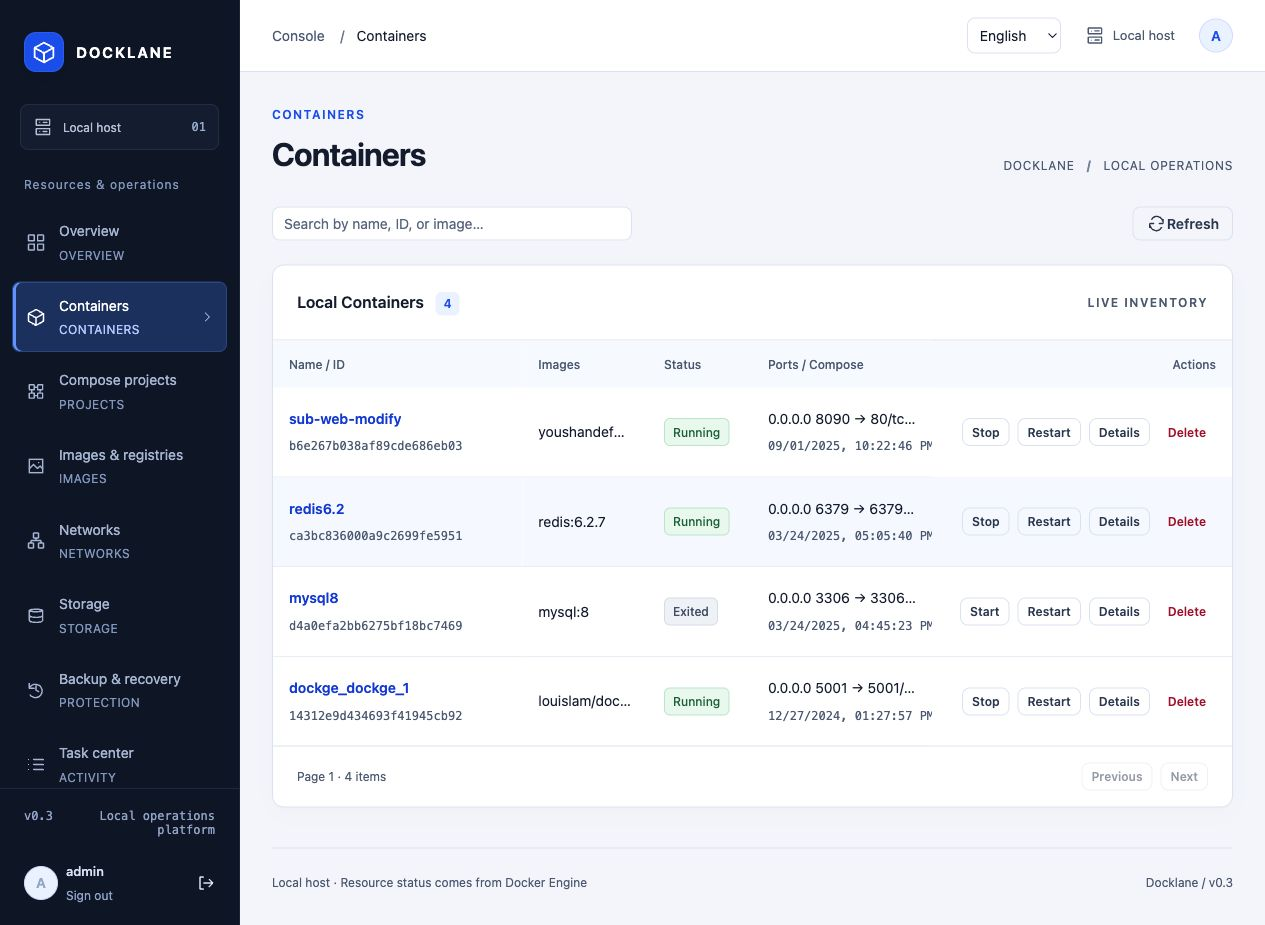
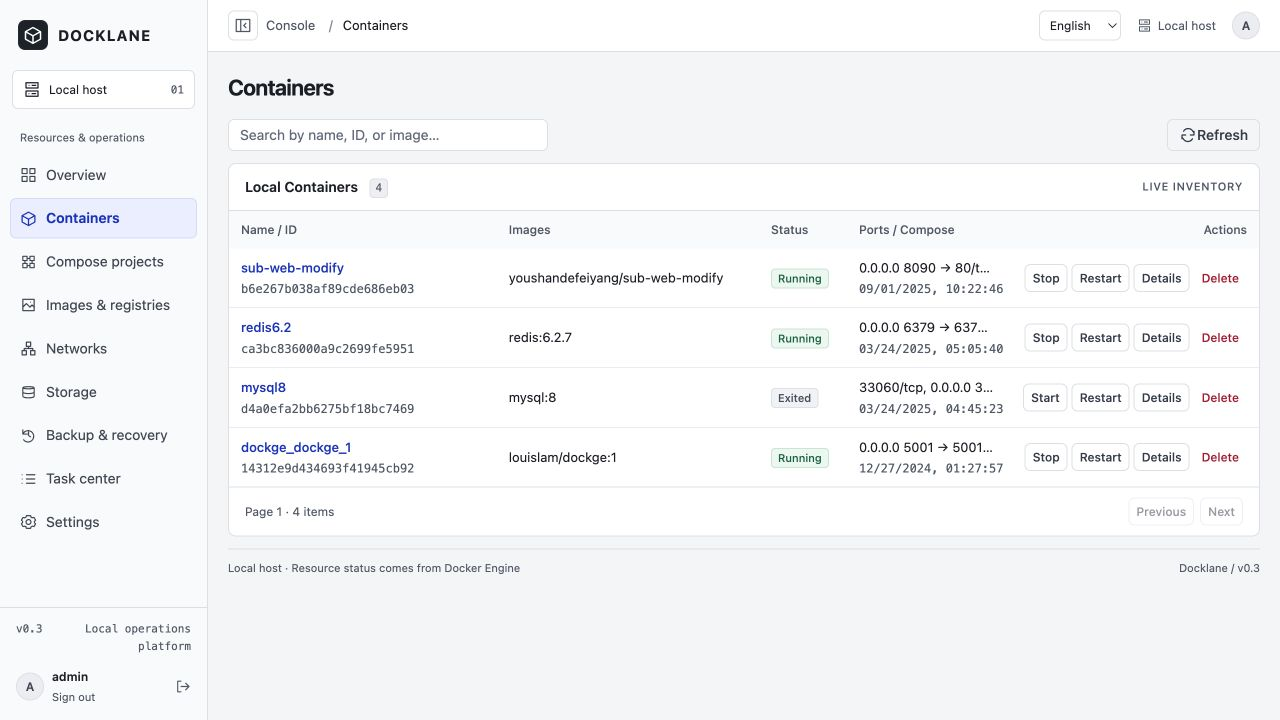
Show the current deployed console in the bilingual README
Replace twelve system screenshots with fresh captures from the test deployment
and update their date and provenance. Keep raw configuration and lower audit
sections outside the captured area, while preserving real empty states.

Constraint: Preserve promotional images and existing screenshot paths
Confidence: high
Scope-risk: narrow
Tested: Twelve JPEG hashes, visual review, bilingual image links, 47 local links, git diff check
Not-tested: Application tests were not rerun for this documentation-only change

diff --git a/docs/images/README.md b/docs/images/README.md
@@ -11,17 +11,17 @@
 
 ## Actual screenshots / 真实界面截图
 
-Captured on 2026-10-17 from the current production frontend build using a local read-only API proxy to the real test environment. No mock resources or metrics were added. The test server was not redeployed.
+Captured on 2026-10-19 directly from the deployed Docklane test application using an authenticated browser. The screenshots show the current compact console, dashboard, sidebar and capability settings. Resources and metrics come from the test environment without API interception or fixtures.
 
-截图来自本地生产构建，通过只读代理读取测试环境真实 API。未添加模拟资源或指标，未重新部署测试服务器。仅登录、退出及读取页面，不执行 Docker 资源变更。
+截图于 2026-10-19 直接采集自已部署的 Docklane 测试环境，展示新版控制台、工作台、侧栏及功能配置界面。资源和指标均来自真实环境，没有 API 拦截或模拟数据。采集期间仅登录、浏览页面、切换浏览器语言并退出，不执行 Docker 资源或配置变更。
 
 - `zh/`: Simplified Chinese / 简体中文
 - `en/`: English / 英文
 - Six pages per language: overview, containers, Compose, images, backups, settings.
-- Original browser JPEG captures are retained without image edits. Viewport: 1265 × 712 CSS pixels; selected pages use full-page capture.
-- Compose and settings use viewport captures to omit raw discovery configuration and audit details. Empty states and restricted capabilities reflect the real host.
+- Original browser JPEG captures are retained without image edits at their native exported dimensions. The default browser viewport is 1280 × 720 CSS pixels.
+- Compose uses a shorter 1280 × 500 viewport to exclude raw discovery configuration. Settings uses the default viewport to omit lower diagnostics and audit details. Empty states and restricted capabilities reflect the real host.
 - No login credentials or test-service address are included. Historical QA screenshots retain their original brand as evidence.
 
-Visual review passed at 95/100 after correcting English container action-column clipping and sidebar footer spacing. All 12 captures were checked for brand, language, layout and excluded sensitive detail. This is a self-assessment of the new design direction, not an external certification or pixel-equivalence claim.
+All 12 captures were visually checked for the Docklane brand, correct language, readable page headings, resource state and excluded sensitive detail. The supplied promotional images above remain unchanged.
 
-Validation for this capture: `make check` passed (Go tests, race, vet, frontend typecheck and 54 frontend tests), production frontend build passed, and a newly compiled Go server served the embedded JavaScript/CSS byte-for-byte from that build. The existing large-bundle advisory remains.
+Validation for this update covers JPEG integrity, matching image language and page, changed image hashes, unchanged promotional image hashes and README image/link targets. This screenshot update does not change application code; broader product verification is documented in [the verification report](../verification.md).

diff --git a/README.en.md b/README.en.md
@@ -31,7 +31,7 @@ Docklane currently manages a single host. See [Current limitations](#current-lim
 
 ## Screenshots
 
-These screenshots use the latest local Docklane frontend connected to the test environment’s real APIs through a read-only proxy; the frontend was not deployed to the test server. Empty lists show actual empty states. Logs, terminal output, raw configuration and audit details are excluded.
+Captured directly from the deployed Docklane test environment on 2026-10-19, these screenshots show real resources, empty states and feature availability. The Compose capture includes only the upper section, excluding raw configuration; Settings shows the first screen only. Logs, terminal output, raw configuration and audit details are excluded.
 
 ![Docklane English overview](docs/images/en/overview.jpg)
 

diff --git a/README.md b/README.md
@@ -31,7 +31,7 @@ Go 服务嵌入 Vue 界面，支持 Linux 二进制和 Docker 部署。Docker En
 
 ## 界面预览
 
-以下截图使用本地最新 Docklane 前端，通过只读代理连接测试环境的真实 API；未向测试服务器部署前端。部分列表为空，展示实际空状态；未收录日志、终端、原始配置和审计详情。
+以下截图于 2026-10-19 直接采集自已部署的 Docklane 测试环境，展示真实资源、空状态及功能可用性。Compose 仅截取不含原始配置的页面上半区；设置页仅展示首屏，未收录日志、终端、原始配置和审计详情。
 
 ![Docklane 中文工作台](docs/images/zh/overview.jpg)
 
